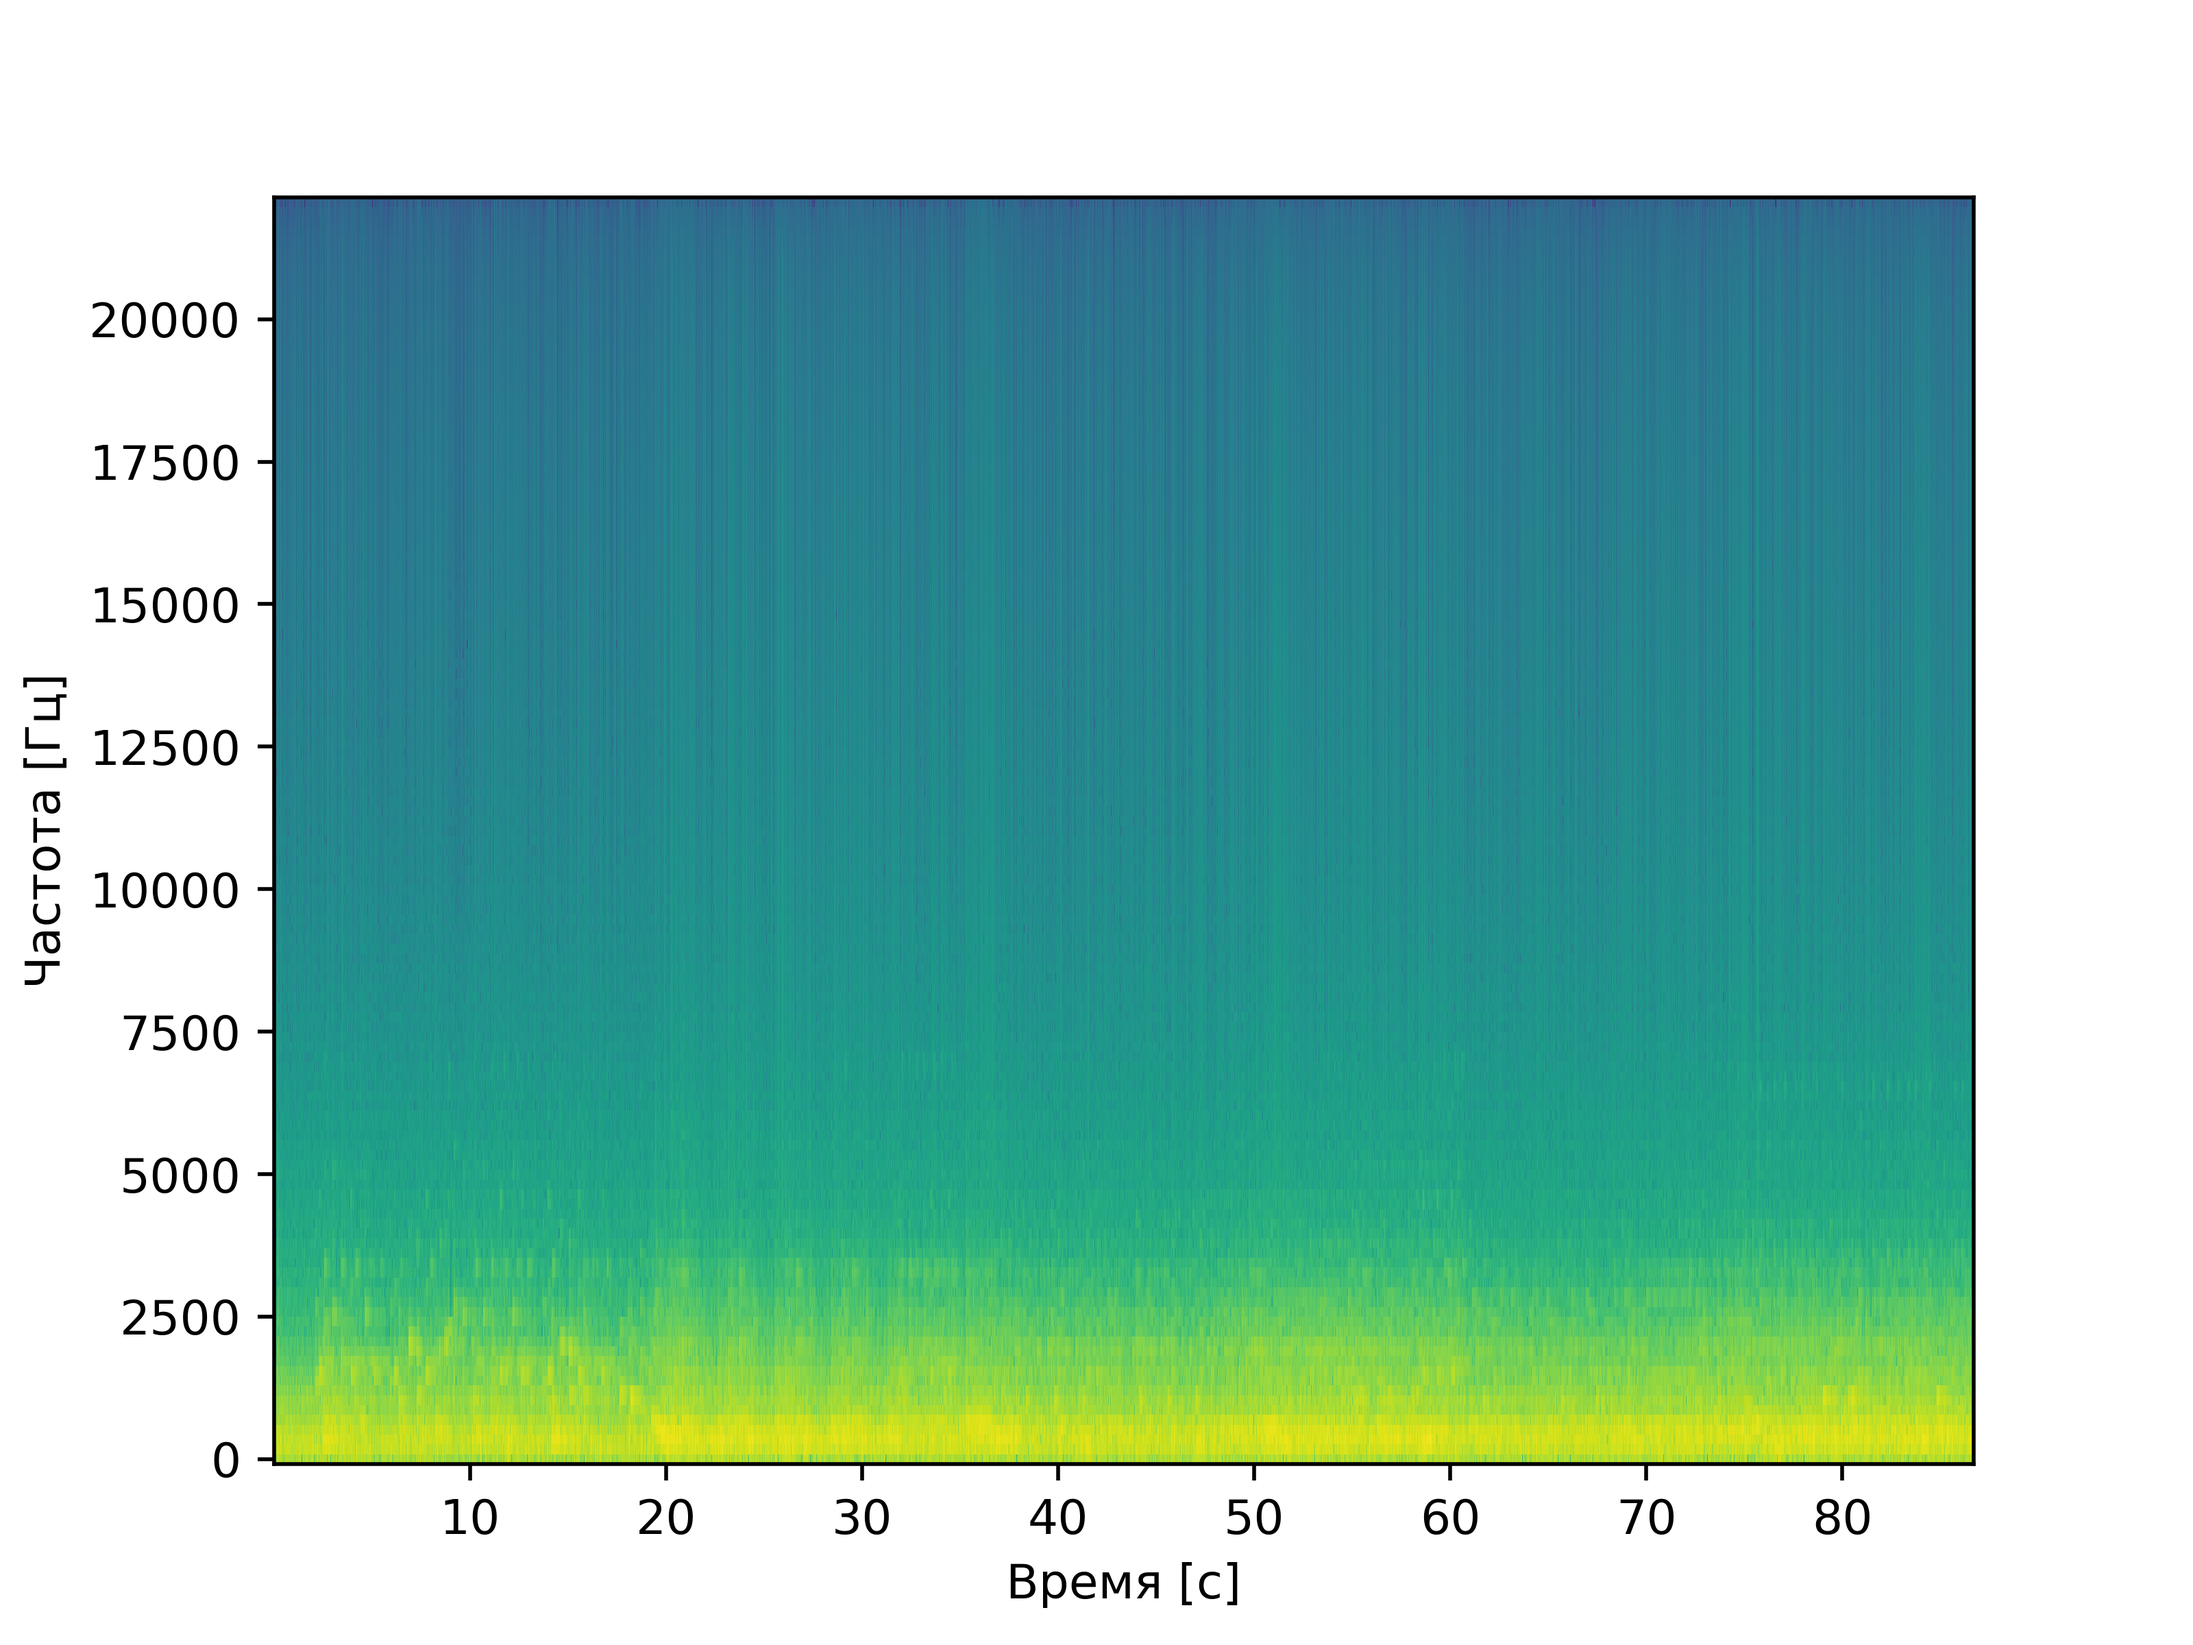
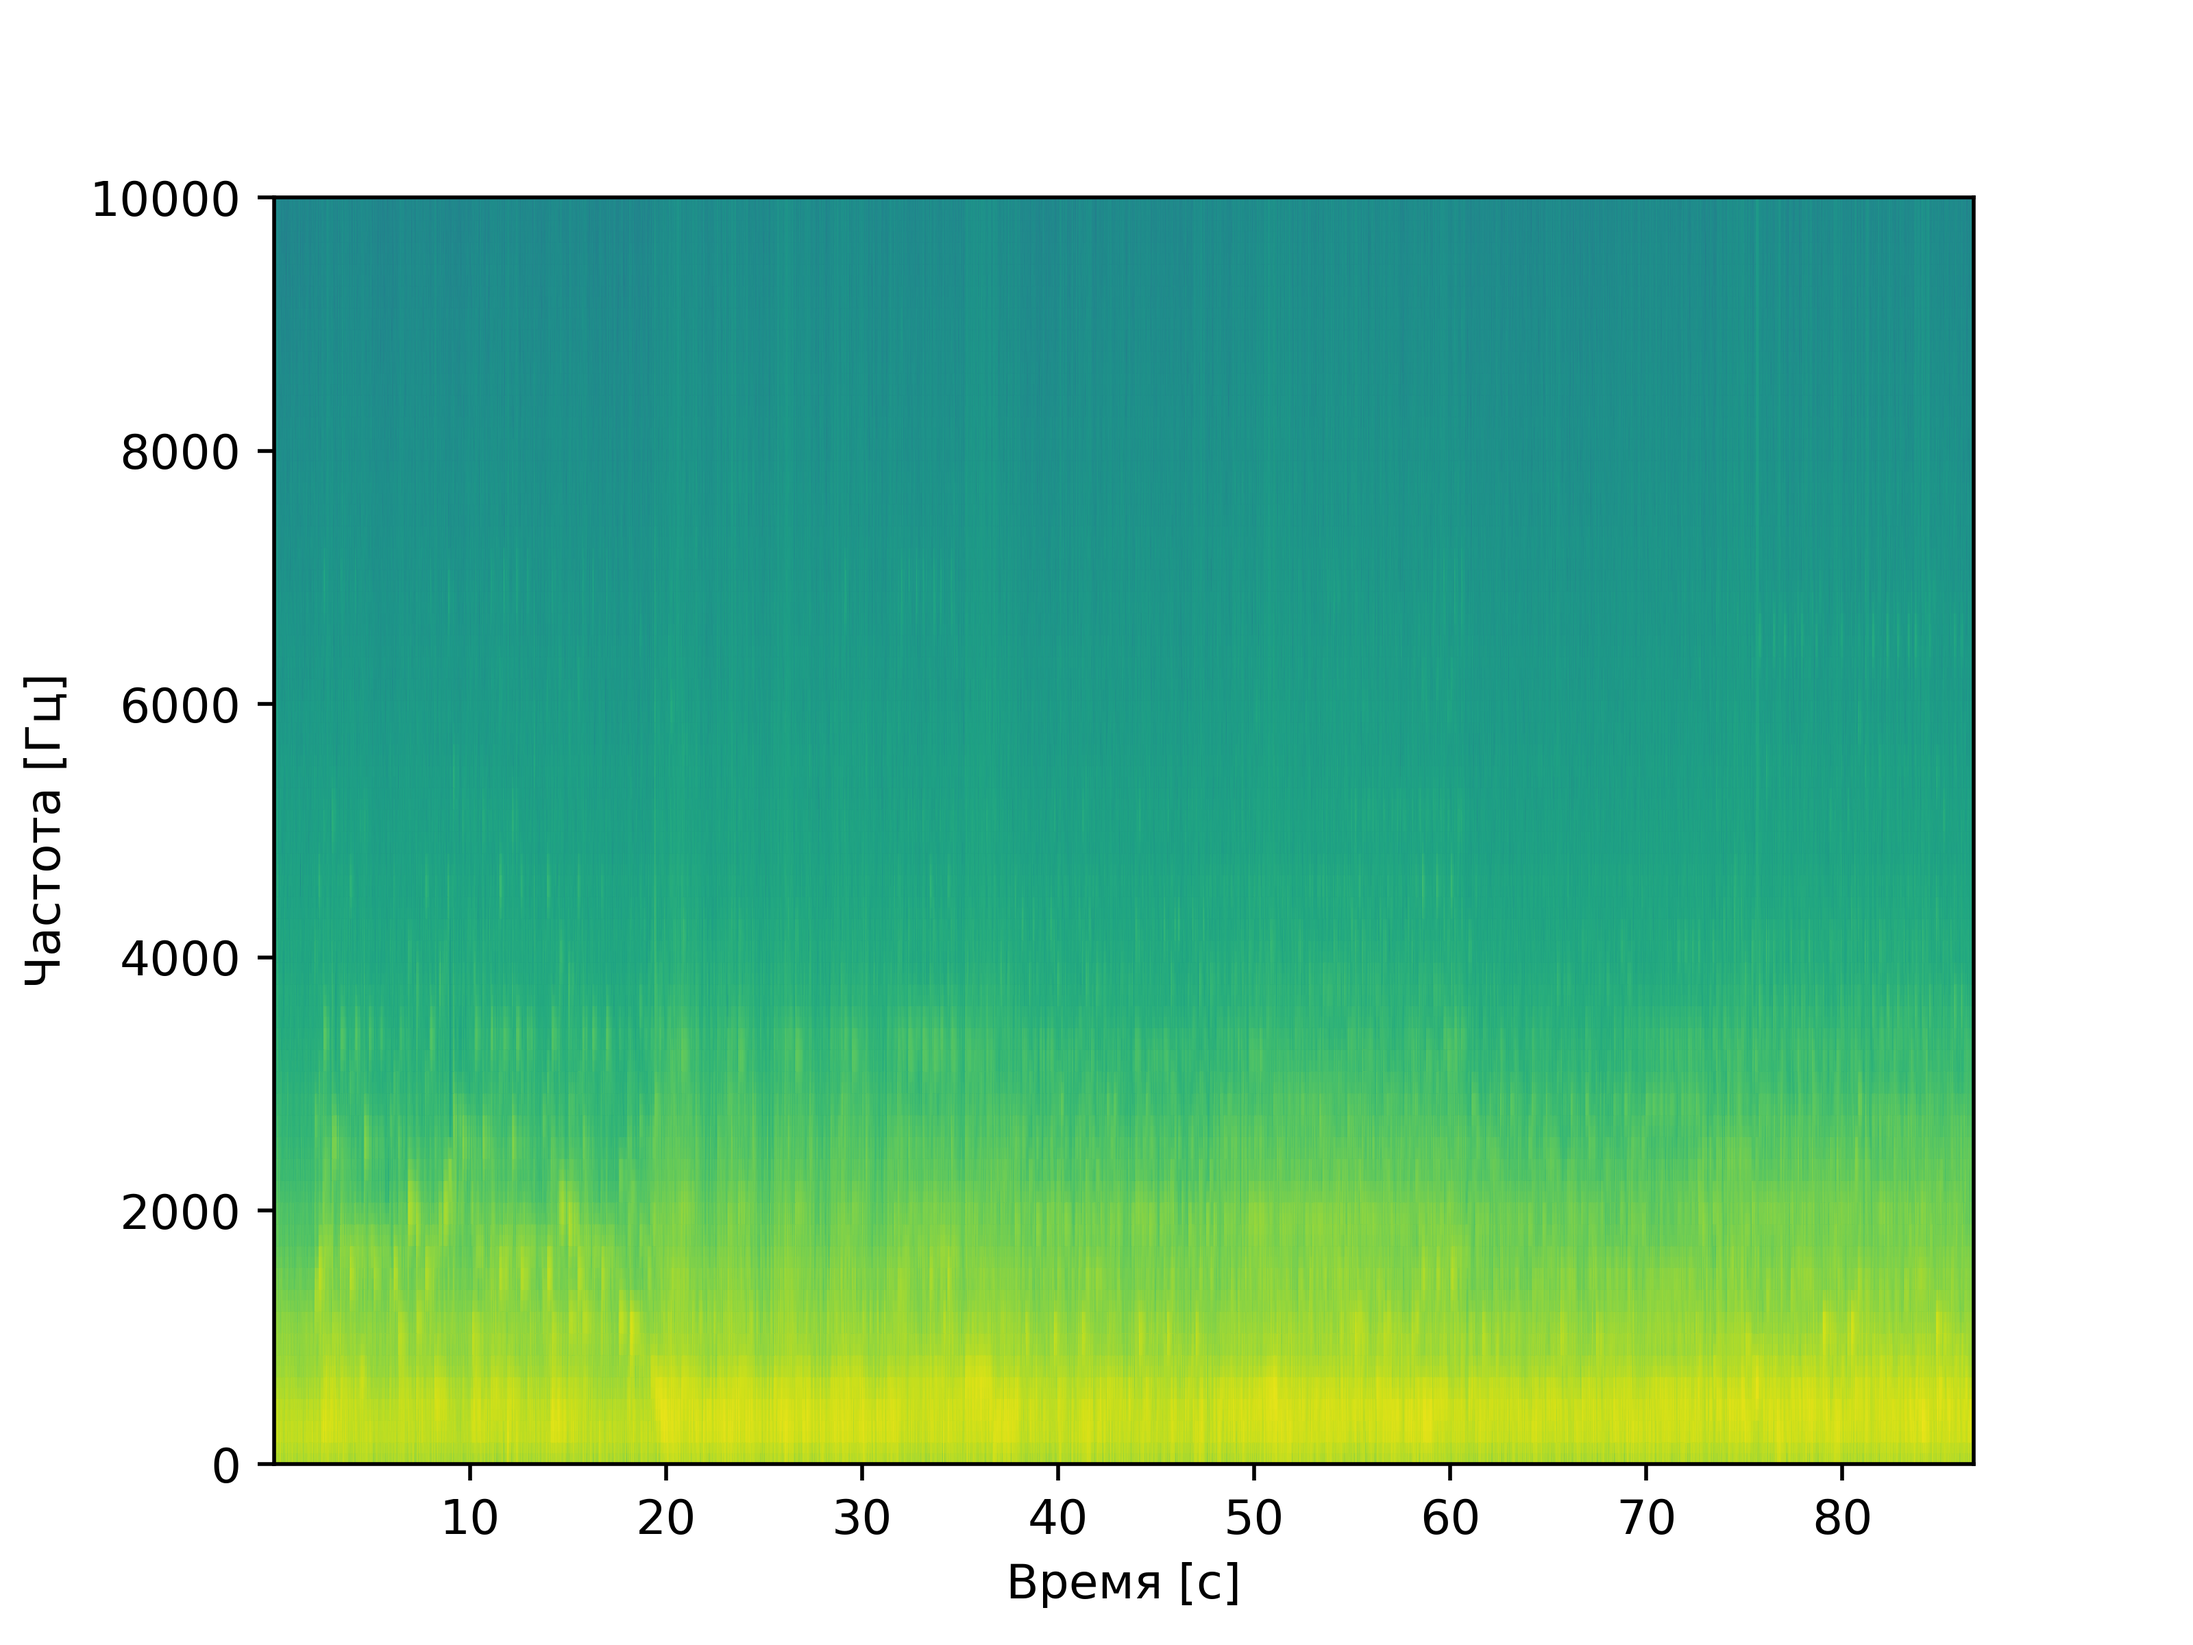
Smooth results in 9th laba.

diff --git a/laba9/main.py b/laba9/main.py
@@ -3,13 +3,14 @@ from scipy import signal
 import matplotlib.pyplot as plt
 import numpy as np
 
+def spectrogram_plot(samples, sample_rate,t = 10000):
+    frequencies, times, my_spectrogram = signal.spectrogram(samples, sample_rate, scaling = 'spectrum', window = ('hann'))
+    spec = np.log10(my_spectrogram)
+    plt.pcolormesh(times, frequencies, spec, shading='gouraud', vmin=spec.min(), vmax=spec.max())
 
-def spectrogram_plot(samples, sample_rate):
-    frequencies, times, my_spectrogram = signal.spectrogram(samples, sample_rate, scaling = 'spectrum', window = ('hann', ))
-    plt.pcolormesh(times, frequencies, np.log10(my_spectrogram))
+    plt.ylim(top=t)
     plt.ylabel('Частота [Гц]')
     plt.xlabel('Время [с]')
-
 
 def denoise(samples, sample_rate, cutoff_freuency, passes=1):
     z = signal.savgol_filter(samples, 100, 3)
@@ -17,7 +18,7 @@ def denoise(samples, sample_rate, cutoff_freuency, passes=1):
     b, a = signal.butter(3, cutoff_freuency / sample_rate)
     # Lowpass filter
     zi = signal.lfilter_zi(b, a)
-    for i in range(passes):
+    for _ in range(passes):
         z, _ = signal.lfilter(b, a, z, zi = zi * z[0])
     return z
 
@@ -31,12 +32,12 @@ if __name__ == '__main__':
     sample_rate, samples = wavfile.read('src/oshinoko.wav')
     plt.figure(dpi=dpi)
   
-    spectrogram_plot(samples, sample_rate)
+    spectrogram_plot(samples, sample_rate, 20000)
     plt.savefig('results/spectrogram.png', dpi = dpi)
     plt.clf()
 
     denoised_0 = denoise(samples, sample_rate, cutoff_freuency = 2500, passes = 0)
-    spectrogram_plot(denoised_0, sample_rate)
+    spectrogram_plot(denoised_0, sample_rate, 20000)
     plt.savefig('results/denoised_spectrogram_savgol.png', dpi = dpi)
     plt.clf()
 
